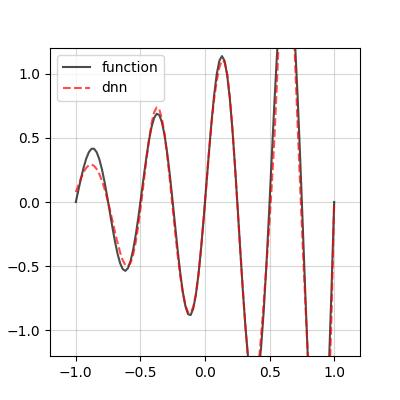
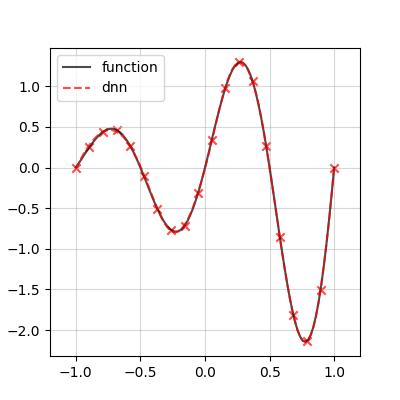
add code

diff --git a/00_tf2/main.py b/00_tf2/main.py
@@ -72,8 +72,6 @@ def main():
     with tf.device("/device:GPU:0"):
         model.train(n_epc = int(1e4), n_btc = -1, c_tol = 1e-5)
     # infer
-    # x_infer = np.linspace(xmin, xmax, nx).reshape(-1, 1)
-    # x_infer = tf.convert_to_tensor(x_infer, dtype=d_type)
     y_infer = model.infer(x_infer)
 
     # compare
@@ -82,7 +80,10 @@ def main():
     plt.plot(x_infer, y_infer, label="dnn", alpha=.7, linestyle="--", c="r")
     plt.scatter(x_train, y_train, alpha=.7, marker="x", c="r")
     plt.xlim(-1.2, 1.2)
-    plt.ylim(-1.2, 1.2)
+    if p_id == 0 or 1:
+        plt.ylim(-1.2, 1.2)
+    elif p_id == 2:
+        plt.ylim(-2.5, 2.5)
     plt.grid(alpha=.5)
     plt.legend(loc="upper left")
     plt.savefig("./figures/problem" + str(p_id) + ".jpg")

diff --git a/00_tf2/functions.py b/00_tf2/functions.py
@@ -26,9 +26,9 @@ def func1_tf(x):
     return y
 
 def func2(x):
-    y = np.exp(x) * np.sin(4. * np.pi * x)
+    y = np.exp(x) * np.sin(2. * np.pi * x)
     return y
 def func2_tf(x):
-    y = tf.exp(x) * tf.sin(4. * np.pi * x)
+    y = tf.exp(x) * tf.sin(2. * np.pi * x)
     return y
 
